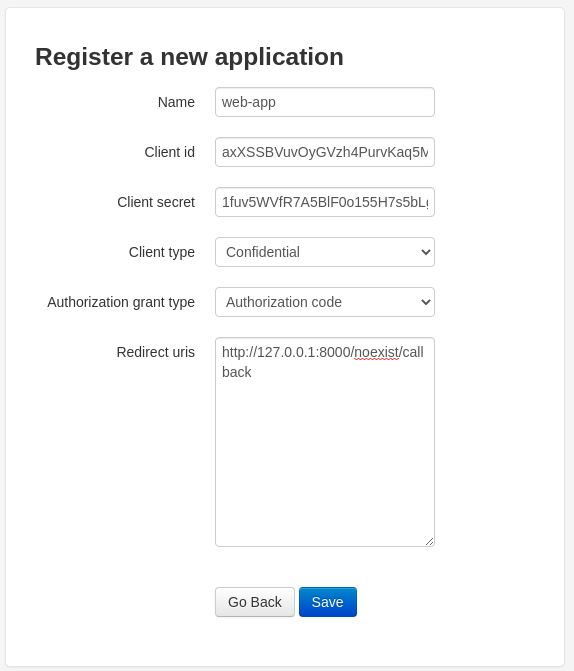
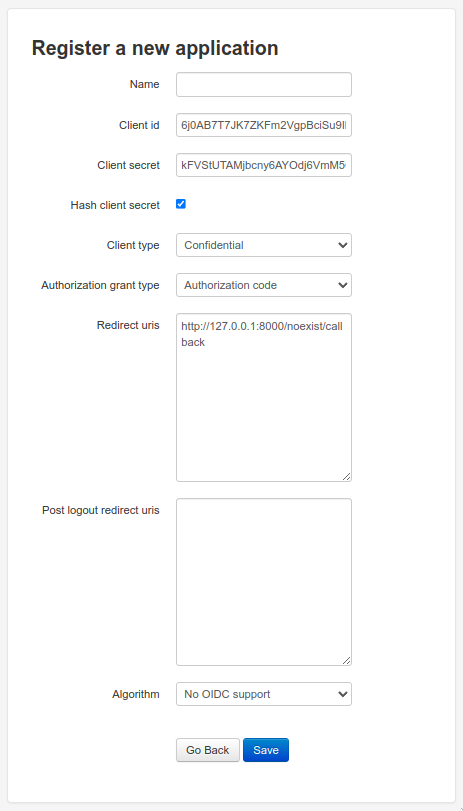
Allow the use of unhashed secrets (#1311)
* enable configuration of Applications to keep the client_secret unhashed to enable properly signed JWTs

---------

diff --git a/oauth2_provider/templates/oauth2_provider/application_detail.html b/oauth2_provider/templates/oauth2_provider/application_detail.html
@@ -17,6 +17,11 @@
             </li>
 
             <li>
+                <p><b>{% trans "Hash client secret" %}</b></p>
+                <p>{{ application.hash_client_secret|yesno:_("yes,no") }}</p>
+            </li>
+
+            <li>
                 <p><b>{% trans "Client type" %}</b></p>
                 <p>{{ application.client_type }}</p>
             </li>

diff --git a/tests/test_oauth2_validators.py b/tests/test_oauth2_validators.py
@@ -4,6 +4,7 @@ import json
 
 import pytest
 from django.contrib.auth import get_user_model
+from django.contrib.auth.hashers import make_password
 from django.test import TestCase, TransactionTestCase
 from django.utils import timezone
 from jwcrypto import jwt
@@ -111,7 +112,16 @@ class TestOAuth2Validator(TransactionTestCase):
         self.request.headers = {"HTTP_AUTHORIZATION": "Basic 123456 789"}
         self.assertEqual(self.validator._extract_basic_auth(self.request), "123456 789")
 
-    def test_authenticate_basic_auth(self):
+    def test_authenticate_basic_auth_hashed_secret(self):
+        self.request.encoding = "utf-8"
+        self.request.headers = get_basic_auth_header("client_id", CLEARTEXT_SECRET)
+        self.assertTrue(self.validator._authenticate_basic_auth(self.request))
+
+    def test_authenticate_basic_auth_unhashed_secret(self):
+        self.application.client_secret = CLEARTEXT_SECRET
+        self.application.hash_client_secret = False
+        self.application.save()
+
         self.request.encoding = "utf-8"
         self.request.headers = get_basic_auth_header("client_id", CLEARTEXT_SECRET)
         self.assertTrue(self.validator._authenticate_basic_auth(self.request))
@@ -147,6 +157,13 @@ class TestOAuth2Validator(TransactionTestCase):
         # b64decode("test") will become b"\xb5\xeb-", it can"t be decoded as utf-8
         self.request.headers = {"HTTP_AUTHORIZATION": "Basic test"}
         self.assertFalse(self.validator._authenticate_basic_auth(self.request))
+
+    def test_authenticate_check_secret(self):
+        hashed = make_password(CLEARTEXT_SECRET)
+        self.assertTrue(self.validator._check_secret(CLEARTEXT_SECRET, CLEARTEXT_SECRET))
+        self.assertTrue(self.validator._check_secret(CLEARTEXT_SECRET, hashed))
+        self.assertFalse(self.validator._check_secret(hashed, hashed))
+        self.assertFalse(self.validator._check_secret(hashed, CLEARTEXT_SECRET))
 
     def test_authenticate_client_id(self):
         self.assertTrue(self.validator.authenticate_client_id("client_id", self.request))

diff --git a/tests/test_models.py b/tests/test_models.py
@@ -2,6 +2,7 @@ from datetime import timedelta
 
 import pytest
 from django.contrib.auth import get_user_model
+from django.contrib.auth.hashers import check_password
 from django.core.exceptions import ImproperlyConfigured, ValidationError
 from django.test import TestCase
 from django.test.utils import override_settings
@@ -18,6 +19,8 @@ from oauth2_provider.models import (
 
 from . import presets
 
+
+CLEARTEXT_SECRET = "1234567890abcdefghijklmnopqrstuvwxyz"
 
 Application = get_application_model()
 Grant = get_grant_model()
@@ -53,6 +56,33 @@ class TestModels(BaseTestModels):
         self.assertTrue(access_token.allow_scopes(["write", "read", "read"]))
         self.assertTrue(access_token.allow_scopes([]))
         self.assertFalse(access_token.allow_scopes(["write", "destroy"]))
+
+    def test_hashed_secret(self):
+        app = Application.objects.create(
+            name="test_app",
+            redirect_uris="http://localhost http://example.com http://example.org",
+            user=self.user,
+            client_type=Application.CLIENT_CONFIDENTIAL,
+            authorization_grant_type=Application.GRANT_AUTHORIZATION_CODE,
+            client_secret=CLEARTEXT_SECRET,
+            hash_client_secret=True,
+        )
+
+        self.assertNotEqual(app.client_secret, CLEARTEXT_SECRET)
+        self.assertTrue(check_password(CLEARTEXT_SECRET, app.client_secret))
+
+    def test_unhashed_secret(self):
+        app = Application.objects.create(
+            name="test_app",
+            redirect_uris="http://localhost http://example.com http://example.org",
+            user=self.user,
+            client_type=Application.CLIENT_CONFIDENTIAL,
+            authorization_grant_type=Application.GRANT_AUTHORIZATION_CODE,
+            client_secret=CLEARTEXT_SECRET,
+            hash_client_secret=False,
+        )
+
+        self.assertEqual(app.client_secret, CLEARTEXT_SECRET)
 
     def test_grant_authorization_code_redirect_uris(self):
         app = Application(

diff --git a/oauth2_provider/oauth2_validators.py b/oauth2_provider/oauth2_validators.py
@@ -12,12 +12,13 @@ from urllib.parse import unquote_plus
 import requests
 from django.conf import settings
 from django.contrib.auth import authenticate, get_user_model
-from django.contrib.auth.hashers import check_password
+from django.contrib.auth.hashers import check_password, identify_hasher
 from django.core.exceptions import ObjectDoesNotExist
 from django.db import transaction
 from django.db.models import Q
 from django.http import HttpRequest
 from django.utils import dateformat, timezone
+from django.utils.crypto import constant_time_compare
 from django.utils.timezone import make_aware
 from django.utils.translation import gettext_lazy as _
 from jwcrypto import jws, jwt
@@ -112,6 +113,18 @@ class OAuth2Validator(RequestValidator):
 
         return auth_string
 
+    def _check_secret(self, provided_secret, stored_secret):
+        """
+        Checks whether the provided client secret is valid.
+
+        Supports both hashed and unhashed secrets.
+        """
+        try:
+            identify_hasher(stored_secret)
+            return check_password(provided_secret, stored_secret)
+        except ValueError:  # Raised if the stored_secret is not hashed.
+            return constant_time_compare(provided_secret, stored_secret)
+
     def _authenticate_basic_auth(self, request):
         """
         Authenticates with HTTP Basic Auth.
@@ -152,7 +165,7 @@ class OAuth2Validator(RequestValidator):
         elif request.client.client_id != client_id:
             log.debug("Failed basic auth: wrong client id %s" % client_id)
             return False
-        elif not check_password(client_secret, request.client.client_secret):
+        elif not self._check_secret(client_secret, request.client.client_secret):
             log.debug("Failed basic auth: wrong client secret %s" % client_secret)
             return False
         else:

diff --git a/tests/migrations/0004_basetestapplication_hash_client_secret_and_more.py b/tests/migrations/0004_basetestapplication_hash_client_secret_and_more.py
@@ -1,0 +1,31 @@
+# Generated by Django 4.2.5 on 2023-09-07 19:28
+
+from django.conf import settings
+from django.db import migrations, models
+import django.db.models.deletion
+
+
+class Migration(migrations.Migration):
+
+    dependencies = [
+        migrations.swappable_dependency(settings.OAUTH2_PROVIDER_ID_TOKEN_MODEL),
+        ('tests', '0003_basetestapplication_post_logout_redirect_uris_and_more'),
+    ]
+
+    operations = [
+        migrations.AddField(
+            model_name='basetestapplication',
+            name='hash_client_secret',
+            field=models.BooleanField(default=True),
+        ),
+        migrations.AddField(
+            model_name='sampleapplication',
+            name='hash_client_secret',
+            field=models.BooleanField(default=True),
+        ),
+        migrations.AlterField(
+            model_name='sampleaccesstoken',
+            name='id_token',
+            field=models.OneToOneField(blank=True, null=True, on_delete=django.db.models.deletion.CASCADE, related_name='s_access_token', to=settings.OAUTH2_PROVIDER_ID_TOKEN_MODEL),
+        ),
+    ]

diff --git a/oauth2_provider/management/commands/createapplication.py b/oauth2_provider/management/commands/createapplication.py
@@ -49,6 +49,13 @@ class Command(BaseCommand):
             help="The secret for this application",
         )
         parser.add_argument(
+            "--no-hash-client-secret",
+            dest="hash_client_secret",
+            action="store_false",
+            help="Don't hash the client secret",
+        )
+        parser.set_defaults(hash_client_secret=True)
+        parser.add_argument(
             "--name",
             type=str,
             help="The name this application",
@@ -74,7 +81,7 @@ class Command(BaseCommand):
             # Data in options must be cleaned because there are unneeded key-value like
             # verbosity and others. Also do not pass any None to the Application
             # instance so default values will be generated for those fields
-            if key in application_fields and value:
+            if key in application_fields and (isinstance(value, bool) or value):
                 if key == "user":
                     application_data.update({"user_id": value})
                 else:

diff --git a/oauth2_provider/models.py b/oauth2_provider/models.py
@@ -29,6 +29,10 @@ logger = logging.getLogger(__name__)
 class ClientSecretField(models.CharField):
     def pre_save(self, model_instance, add):
         secret = getattr(model_instance, self.attname)
+        should_be_hashed = getattr(model_instance, "hash_client_secret", True)
+        if not should_be_hashed:
+            return super().pre_save(model_instance, add)
+
         try:
             hasher = identify_hasher(secret)
             logger.debug(f"{model_instance}: {self.attname} is already hashed with {hasher}.")
@@ -120,6 +124,7 @@ class AbstractApplication(models.Model):
         db_index=True,
         help_text=_("Hashed on Save. Copy it now if this is a new secret."),
     )
+    hash_client_secret = models.BooleanField(default=True)
     name = models.CharField(max_length=255, blank=True)
     skip_authorization = models.BooleanField(default=False)
 

diff --git a/oauth2_provider/views/application.py b/oauth2_provider/views/application.py
@@ -34,6 +34,7 @@ class ApplicationRegistration(LoginRequiredMixin, CreateView):
                 "name",
                 "client_id",
                 "client_secret",
+                "hash_client_secret",
                 "client_type",
                 "authorization_grant_type",
                 "redirect_uris",
@@ -93,6 +94,7 @@ class ApplicationUpdate(ApplicationOwnerIsUserMixin, UpdateView):
                 "name",
                 "client_id",
                 "client_secret",
+                "hash_client_secret",
                 "client_type",
                 "authorization_grant_type",
                 "redirect_uris",

diff --git a/oauth2_provider/migrations/0009_add_hash_client_secret.py b/oauth2_provider/migrations/0009_add_hash_client_secret.py
@@ -1,0 +1,18 @@
+# Generated by Django 4.2.5 on 2023-09-07 19:26
+
+from django.db import migrations, models
+
+
+class Migration(migrations.Migration):
+
+    dependencies = [
+        ('oauth2_provider', '0008_alter_accesstoken_token'),
+    ]
+
+    operations = [
+        migrations.AddField(
+            model_name='application',
+            name='hash_client_secret',
+            field=models.BooleanField(default=True),
+        ),
+    ]

diff --git a/docs/tutorial/tutorial_01.rst b/docs/tutorial/tutorial_01.rst
@@ -99,6 +99,11 @@ point your browser to http://localhost:8000/o/applications/ and add an Applicati
  * `Name`: this is the name of the client application on the server, and will be displayed on the authorization request
    page, where users can allow/deny access to their data.
 
+ * `Hash client secret`: checking this hashes the client secret on save so it cannot be retrieved later. This should be
+   unchecked if you plan to use OIDC with ``HS256`` and want to check the tokens' signatures using JWT. Otherwise,
+   Django OAuth Toolkit cannot use `Client Secret` to sign the tokens (as it cannot be retrieved later) and the hashed
+   value will be used when signing. This may lead to incompatibilities with some OIDC Relying Party libraries.
+
 Take note of the `Client id` and the `Client Secret` then logout (this is needed only for testing the authorization
 process we'll explain shortly)
 

diff --git a/docs/getting_started.rst b/docs/getting_started.rst
@@ -244,7 +244,9 @@ Start the development server::
 
 Point your browser to http://127.0.0.1:8000/o/applications/register/ lets create an application.
 
-Fill the form as show in the screenshot below and before save take note of ``Client id`` and ``Client secret`` we will use it in a minute.
+Fill the form as show in the screenshot below and before save take note of ``Client id`` and ``Client secret``, we will use it in a minute.
+
+If you want to use this application with OIDC and ``HS256`` (see :doc:`OpenID Connect <oidc>`), uncheck ``Hash client secret`` to allow verifying tokens using JWT signatures. This means your client secret will be stored in cleartext but is the only way to successfully use signed JWT's.
 
 .. image:: _images/application-register-auth-code.png
    :alt: Authorization code application registration

diff --git a/CHANGELOG.md b/CHANGELOG.md
@@ -20,6 +20,7 @@ and this project adheres to [Semantic Versioning](https://semver.org/spec/v2.0.0
 * #1185 Add middleware for adding access token to request
 * #1273 Add caching of loading of OIDC private key.
 * #1285 Add post_logout_redirect_uris field in application views.
+* #1311 Add option to disable client_secret hashing to allow verifying JWTs' signatures.
 
 - ### Fixed
 * #1284 Allow to logout whith no id_token_hint even if the browser session already expired
